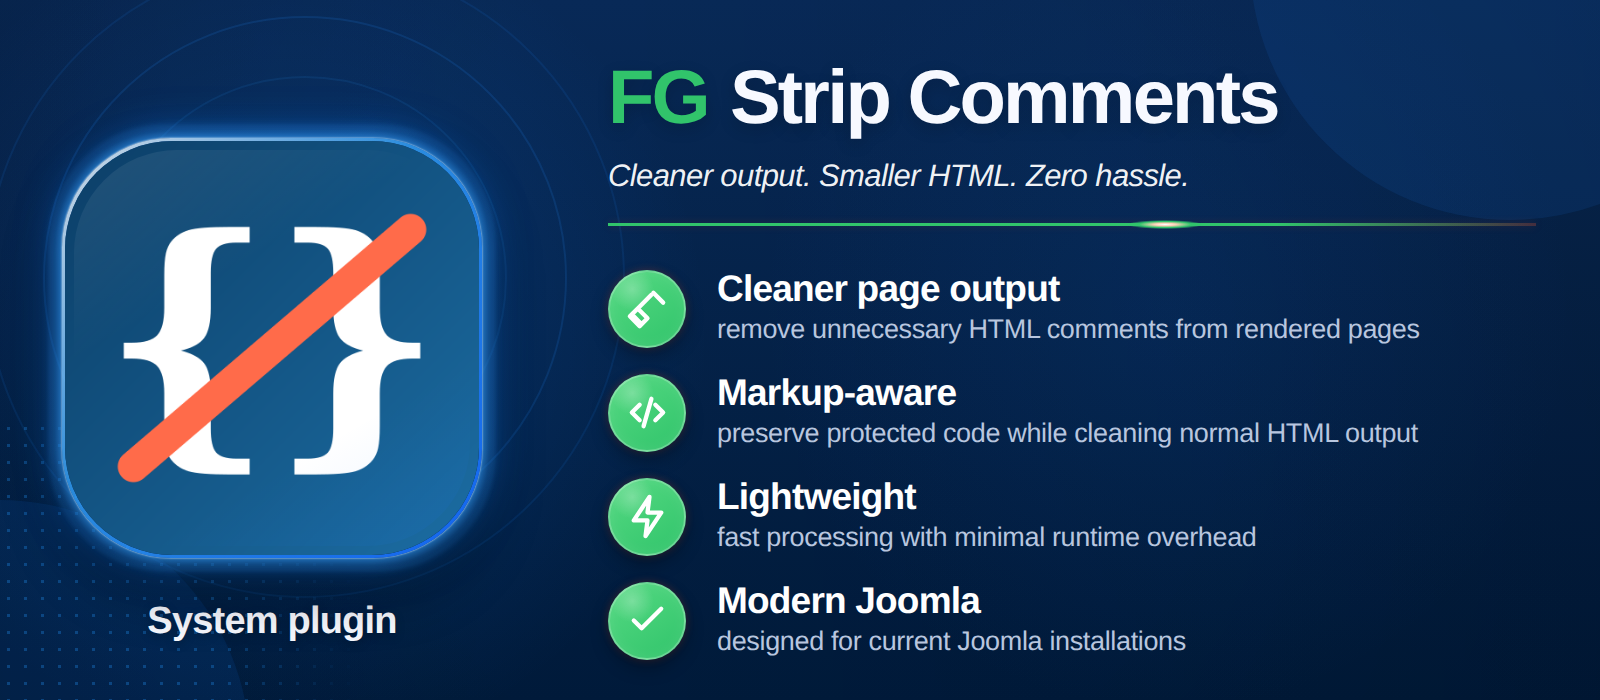
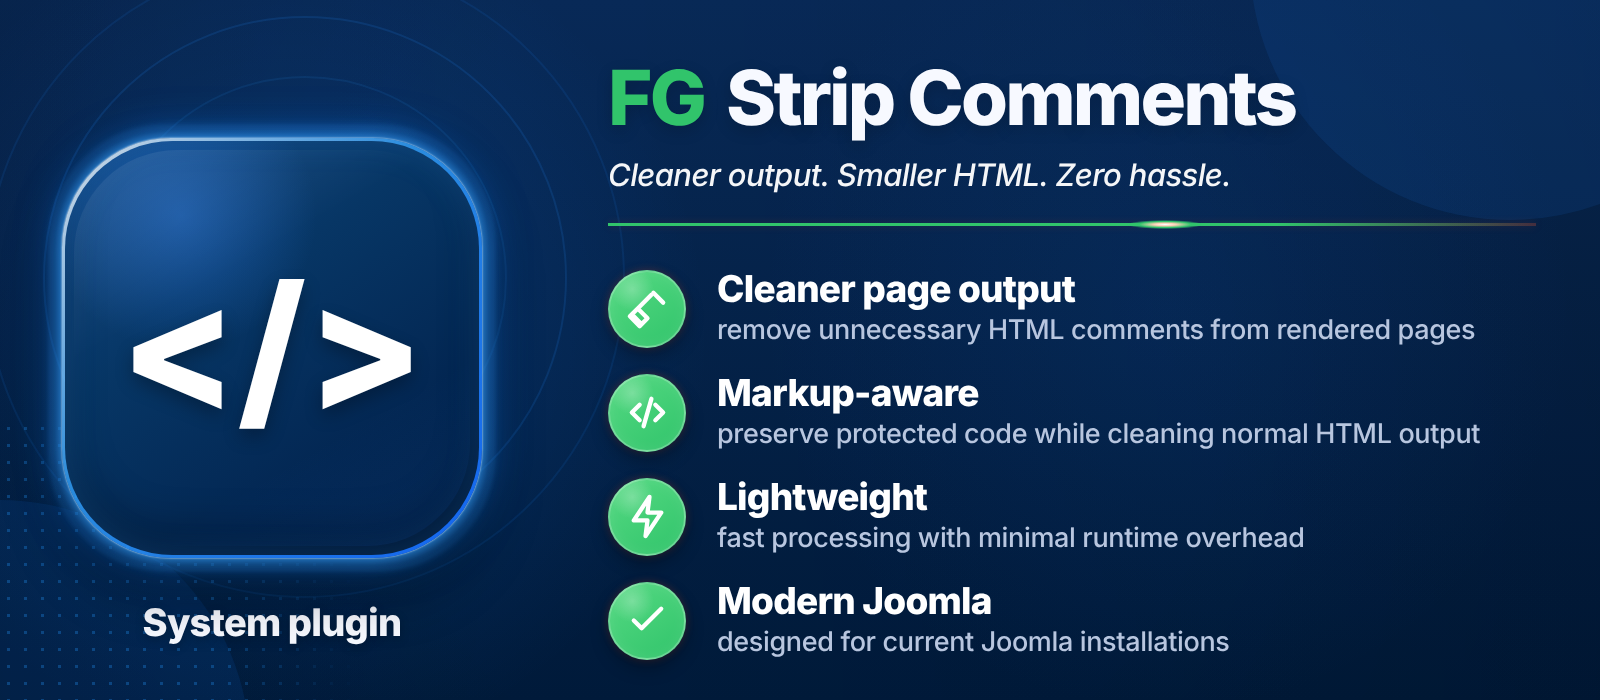
v3.2

diff --git a/templates/banner.css b/templates/banner.css
@@ -1,6 +1,6 @@
 html,body{margin:0;width:100%;height:100%;overflow:hidden;background:#00152f}*{box-sizing:border-box}body{font-family:Inter,"Segoe UI",Arial,sans-serif;-webkit-font-smoothing:antialiased;text-rendering:geometricPrecision}.banner{position:relative;width:1600px;height:700px;overflow:hidden;color:var(--text);background:radial-gradient(circle at 18% 48%,rgba(20,132,255,.18),transparent 31%),radial-gradient(circle at 73% 44%,rgba(15,92,190,.12),transparent 33%),linear-gradient(180deg,var(--bg-top),var(--bg-bottom))}.banner:before{content:"";position:absolute;inset:0;background:linear-gradient(90deg,rgba(0,0,0,.05),transparent 35%,rgba(0,0,0,.07)),radial-gradient(circle at 50% 50%,transparent 46%,rgba(0,0,0,.08) 100%);pointer-events:none}.ambient{position:absolute;border-radius:50%;pointer-events:none}.ambient-a{width:520px;height:520px;right:-170px;top:-300px;background:rgba(21,109,211,.13)}.ambient-b{width:500px;height:500px;left:-250px;bottom:-300px;background:rgba(14,100,212,.13)}.rings{position:absolute;left:-15px;top:-42px;width:640px;height:640px}.rings span{position:absolute;border-radius:50%;border:2px solid rgba(34,134,255,.10)}.rings span:nth-child(1){inset:0}.rings span:nth-child(2){inset:58px;border-color:rgba(35,145,255,.14)}.rings span:nth-child(3){inset:118px;border-color:rgba(38,156,255,.10)}.dots{position:absolute;left:0;bottom:-5px;width:360px;height:285px;opacity:.32;background-image:radial-gradient(circle,rgba(37,154,255,.9) 1.7px,transparent 1.8px);background-size:17px 17px;mask-image:linear-gradient(90deg,#000 0%,#000 58%,transparent 100%)}
 .left-panel{position:absolute;left:0;top:0;width:34%;height:100%;display:flex;flex-direction:column;align-items:center}.logo-shell{position:relative;width:420px;height:420px;margin-top:138px;border-radius:26%;padding:3px;background:linear-gradient(135deg,rgba(255,255,255,.85),rgba(52,165,255,.8) 42%,rgba(20,105,255,.92));box-shadow:0 0 2px rgba(255,255,255,.95),0 0 18px rgba(61,170,255,.95),0 0 44px rgba(17,128,255,.62),0 30px 58px rgba(0,0,0,.45)}.logo-shell:before,.logo-shell:after{content:"";position:absolute;border-radius:inherit;pointer-events:none}.logo-shell:before{inset:-12px;border:1px solid rgba(61,166,255,.35);filter:blur(2px)}.logo-shell:after{inset:12px;background:linear-gradient(150deg,rgba(255,255,255,.09),transparent 34%,transparent 70%,rgba(29,122,255,.10))}.logo-inner{position:relative;width:100%;height:100%;border-radius:inherit;overflow:hidden;display:grid;place-items:center;background:radial-gradient(circle at 28% 18%,rgba(55,139,255,.36),transparent 30%),linear-gradient(145deg,#114a88 0%,#073665 38%,#032753 72%,#021e42 100%);box-shadow:inset 0 0 32px rgba(63,159,255,.18),inset 0 -24px 42px rgba(0,0,0,.28)}.project-logo{position:absolute;left:50%;top:50%;width:var(--logo-size,77%);height:var(--logo-size,77%);max-width:none;max-height:none;object-fit:contain;transform:translate(calc(-50% + var(--logo-offset-x,0px)),calc(-50% + var(--logo-offset-y,0px))) scale(var(--logo-scale,1));transform-origin:center center;filter:drop-shadow(0 8px 12px rgba(0,0,0,.28))}.fallback-logo{font-size:172px;line-height:1;font-weight:800;color:white;text-shadow:0 8px 18px rgba(0,0,0,.28)}.extension-type{margin-top:42px;font-size:38px;font-weight:800;letter-spacing:-.8px;text-shadow:0 3px 10px rgba(0,0,0,.25)}
 .content{position:absolute;left:38%;top:0;width:58%;height:100%}.hero{padding-top:60px}h1{margin:0;white-space:nowrap;font-size:76px;line-height:1;font-weight:800;letter-spacing:-2.8px;text-shadow:0 5px 16px rgba(0,0,0,.18)}h1 .fg{color:var(--accent);margin-right:22px}.subtitle{margin-top:22px;font-size:31px;line-height:1.15;font-style:italic;font-weight:500;letter-spacing:-.6px;color:rgba(255,255,255,.96)}.divider{position:relative;width:100%;height:3px;margin-top:29px;background:linear-gradient(90deg,var(--accent) 0%,var(--accent) 72%,rgba(255,85,40,.25) 100%);box-shadow:0 0 8px rgba(255,85,35,.18)}.divider i{position:absolute;left:60%;top:-3px;width:76px;height:9px;transform:translateX(-50%);border-radius:50%;background:radial-gradient(ellipse,#fff 0%,#ffd0b6 20%,var(--accent) 48%,transparent 72%);filter:blur(.5px)}
-.features{margin-top:31px}.feature{display:grid;grid-template-columns:86px minmax(0,1fr);align-items:center;column-gap:23px;min-height:104px}.feature-icon{width:78px;height:78px;border-radius:50%;display:grid;place-items:center;background:radial-gradient(circle at 30% 23%,rgba(255,255,255,.26),transparent 28%),linear-gradient(145deg,var(--accent-2),var(--accent));border:2px solid rgba(255,255,255,.26);box-shadow:inset 0 0 14px rgba(255,255,255,.08),0 8px 18px rgba(0,0,0,.30),0 0 8px rgba(255,83,30,.24)}.feature-icon svg{width:47px;height:47px;stroke:#fff;fill:none;stroke-width:2.2;stroke-linecap:round;stroke-linejoin:round}.feature-copy{min-width:0;padding-bottom:2px}.feature h2{margin:0 0 7px;font-size:37px;line-height:1.03;font-weight:800;letter-spacing:-.8px;color:#fff}.feature p{margin:0;white-space:nowrap;font-size:27px;line-height:1.1;font-weight:500;letter-spacing:-.35px;color:var(--muted)}.features-3 .feature{min-height:128px}.features-3 .feature h2{font-size:39px}.features-3 .feature p{font-size:28px}
+.features{margin-top:31px}.feature{display:grid;grid-template-columns:86px minmax(0,1fr);align-items:center;column-gap:23px;min-height:104px}.feature-icon{width:78px;height:78px;border-radius:50%;display:grid;place-items:center;background:radial-gradient(circle at 30% 23%,rgba(255,255,255,.26),transparent 28%),linear-gradient(145deg,var(--accent-2),var(--accent));border:2px solid rgba(255,255,255,.26);box-shadow:inset 0 0 14px rgba(255,255,255,.08),0 8px 18px rgba(0,0,0,.30),0 0 8px rgba(255,83,30,.24)}.feature-icon svg{width:47px;height:47px;color:#fff;stroke:currentColor;fill:none;stroke-width:2;stroke-linecap:round;stroke-linejoin:round}.feature-copy{min-width:0;padding-bottom:2px}.feature h2{margin:0 0 7px;font-size:37px;line-height:1.03;font-weight:800;letter-spacing:-.8px;color:#fff}.feature p{margin:0;white-space:nowrap;font-size:27px;line-height:1.1;font-weight:500;letter-spacing:-.35px;color:var(--muted)}.features-3 .feature{min-height:128px}.features-3 .feature h2{font-size:39px}.features-3 .feature p{font-size:28px}
 
 .project-logo-full{position:absolute;left:50%;top:50%;width:var(--logo-size,100%);height:var(--logo-size,100%);max-width:none;max-height:none;object-fit:cover;border-radius:inherit;transform:translate(calc(-50% + var(--logo-offset-x,0px)),calc(-50% + var(--logo-offset-y,0px))) scale(var(--logo-scale,1.045));transform-origin:center center;filter:none}

diff --git a/templates/icon-catalog.html b/templates/icon-catalog.html
@@ -1,0 +1,12 @@
+<!doctype html>
+<html lang="sk"><head><meta charset="utf-8"><meta name="viewport" content="width=device-width,initial-scale=1">
+<title>FG Banner Generator – Icon catalog</title>
+<style>
+body{font-family:system-ui,sans-serif;background:#07182f;color:#f5f8ff;margin:30px}
+.grid{display:grid;grid-template-columns:repeat(auto-fill,minmax(150px,1fr));gap:14px}
+.card{background:#0c2b50;border:1px solid #24496f;border-radius:12px;padding:18px;text-align:center}
+img{width:42px;height:42px;filter:brightness(0) invert(1)}
+code{display:block;margin-top:10px;color:#b9c7de}
+</style></head><body><h1>Tabler icon catalog</h1><div class="grid">
+{% for name in icon_names %}<div class="card"><img src="icons/{{ name }}.svg" alt=""><code>{{ name }}</code></div>{% endfor %}
+</div></body></html>

diff --git a/sync_icons.py b/sync_icons.py
@@ -1,0 +1,88 @@
+#!/usr/bin/env python3
+"""
+Download the curated Tabler Icons set used by FG Banner Generator.
+
+The local icon name is stable for projects.json; tabler-icons.json maps it
+to the upstream Tabler filename.
+"""
+
+from __future__ import annotations
+import argparse
+import json
+import urllib.request
+from pathlib import Path
+
+ROOT = Path(__file__).resolve().parent
+MANIFEST = ROOT / "tabler-icons.json"
+DEST = ROOT / "templates" / "icons"
+
+RAW_BASE = "https://raw.githubusercontent.com/tabler/tabler-icons/{branch}/icons/{variant}/{name}.svg"
+
+
+def load_manifest():
+    return json.loads(MANIFEST.read_text(encoding="utf-8"))
+
+
+def normalize_svg(svg: str) -> str:
+    # Tabler SVGs use currentColor, which is ideal for our inline CSS.
+    # Keep upstream SVG semantics intact; only normalize the XML declaration.
+    svg = svg.strip()
+    if svg.startswith("<?xml"):
+        svg = svg.split("?>", 1)[1].lstrip()
+    return svg + "\n"
+
+
+def fetch(url: str) -> str:
+    req = urllib.request.Request(
+        url,
+        headers={"User-Agent": "FG-Banner-Generator/3.2"},
+    )
+    with urllib.request.urlopen(req, timeout=30) as r:
+        return r.read().decode("utf-8")
+
+
+def sync(selected: set[str] | None = None) -> int:
+    data = load_manifest()
+    branch = data.get("branch", "main")
+    variant = data.get("variant", "outline")
+    icons = data["icons"]
+    DEST.mkdir(parents=True, exist_ok=True)
+
+    failures = 0
+    for local_name, upstream_name in icons.items():
+        if selected and local_name not in selected:
+            continue
+
+        url = RAW_BASE.format(
+            branch=branch,
+            variant=variant,
+            name=upstream_name,
+        )
+        target = DEST / f"{local_name}.svg"
+
+        try:
+            svg = normalize_svg(fetch(url))
+            target.write_text(svg, encoding="utf-8")
+            print(f"✓ {local_name:<18} <- {upstream_name}.svg")
+        except Exception as e:
+            failures += 1
+            print(f"✗ {local_name:<18} {e}")
+
+    return failures
+
+
+def main():
+    ap = argparse.ArgumentParser()
+    ap.add_argument(
+        "icons",
+        nargs="*",
+        help="Optional local icon names. Without arguments all curated icons are synced.",
+    )
+    args = ap.parse_args()
+
+    failures = sync(set(args.icons) if args.icons else None)
+    raise SystemExit(1 if failures else 0)
+
+
+if __name__ == "__main__":
+    main()

diff --git a/render.py b/render.py
@@ -60,6 +60,13 @@ async def render_png(project):
         await browser.close()
     return out
 
+def write_icon_catalog():
+    manifest = json.loads((ROOT / "tabler-icons.json").read_text(encoding="utf-8"))
+    t = env.get_template("icon-catalog.html")
+    out = OUTPUT_DIR / "icons.html"
+    out.write_text(t.render(icon_names=manifest["icons"].keys()), encoding="utf-8")
+    return out
+
 def write_preview():
     t = env.get_template('preview.html')
     out = OUTPUT_DIR/'index.html'
@@ -76,6 +83,7 @@ async def render_selected(ids=None):
         out = await render_png(p)
         print(f"✓ {p['id']}: {out.relative_to(ROOT)}")
     print(f"✓ preview: {write_preview().relative_to(ROOT)}")
+    print(f"✓ icons: {write_icon_catalog().relative_to(ROOT)}")
 
 def main():
     ap = argparse.ArgumentParser(description='FG Banner Generator v3')

diff --git a/README.md b/README.md
@@ -122,3 +122,104 @@ Príklady:
 "logo_offset_x": 0,
 "logo_offset_y": 0
 ```
+
+
+## Tabler Icons – V3.2
+
+V3.2 štandardizuje feature ikonky na **Tabler Icons / Outline**. Tabler používa
+24×24 mriežku a 2px stroke, takže ikony sú vizuálne konzistentné naprieč bannermi.
+
+Kurátorovaná sada je definovaná v:
+
+```text
+tabler-icons.json
+```
+
+Aktuálne obsahuje viac než 30 praktických ikon, napr.:
+
+```text
+shield
+shield-check
+image
+photo
+code
+puzzle
+bolt
+broom
+link
+check
+database
+world
+lock
+settings
+language
+eye
+file
+files
+mail
+at
+user
+users
+search
+filter
+download
+upload
+refresh
+trash
+replace
+device-desktop
+browser
+server
+```
+
+### Synchronizácia ikon
+
+Pred prvým lokálnym renderom alebo po zmene `tabler-icons.json`:
+
+```bash
+python sync_icons.py
+```
+
+Alebo iba konkrétne ikonky:
+
+```bash
+python sync_icons.py database server lock
+```
+
+GitHub Actions ich synchronizuje automaticky pred renderovaním.
+
+### Použitie v projects.json
+
+```json
+{
+  "icon": "database",
+  "heading": "Database access",
+  "description": "..."
+}
+```
+
+Generátor následne vloží:
+
+```text
+templates/icons/database.svg
+```
+
+### Vlastná ikona
+
+Stále môžeš pridať aj vlastné SVG priamo do `templates/icons/`.
+Ak napríklad vytvoríš:
+
+```text
+templates/icons/my-special-icon.svg
+```
+
+v `projects.json` použiješ:
+
+```json
+"icon": "my-special-icon"
+```
+
+Odporúčané je držať vlastné ikony v rovnakom štýle: `viewBox="0 0 24 24"`,
+outline, `currentColor`, približne 2px stroke.
+
+Licenčné informácie pre Tabler sú v `THIRD_PARTY_LICENSES.md`.

diff --git a/THIRD_PARTY_LICENSES.md b/THIRD_PARTY_LICENSES.md
@@ -1,0 +1,32 @@
+# Third-party licenses
+
+## Tabler Icons
+
+FG Banner Generator uses a curated subset of **Tabler Icons**.
+
+- Project: Tabler Icons
+- Repository: https://github.com/tabler/tabler-icons
+- License: MIT
+- Copyright: Copyright (c) 2020-2026 Paweł Kuna
+
+MIT License
+
+Copyright (c) 2020-2026 Paweł Kuna
+
+Permission is hereby granted, free of charge, to any person obtaining a copy
+of this software and associated documentation files (the "Software"), to deal
+in the Software without restriction, including without limitation the rights
+to use, copy, modify, merge, publish, distribute, sublicense, and/or sell
+copies of the Software, and to permit persons to whom the Software is
+furnished to do so, subject to the following conditions:
+
+The above copyright notice and this permission notice shall be included in all
+copies or substantial portions of the Software.
+
+THE SOFTWARE IS PROVIDED "AS IS", WITHOUT WARRANTY OF ANY KIND, EXPRESS OR
+IMPLIED, INCLUDING BUT NOT LIMITED TO THE WARRANTIES OF MERCHANTABILITY,
+FITNESS FOR A PARTICULAR PURPOSE AND NONINFRINGEMENT. IN NO EVENT SHALL THE
+AUTHORS OR COPYRIGHT HOLDERS BE LIABLE FOR ANY CLAIM, DAMAGES OR OTHER
+LIABILITY, WHETHER IN AN ACTION OF CONTRACT, TORT OR OTHERWISE, ARISING FROM,
+OUT OF OR IN CONNECTION WITH THE SOFTWARE OR THE USE OR OTHER DEALINGS IN THE
+SOFTWARE.
